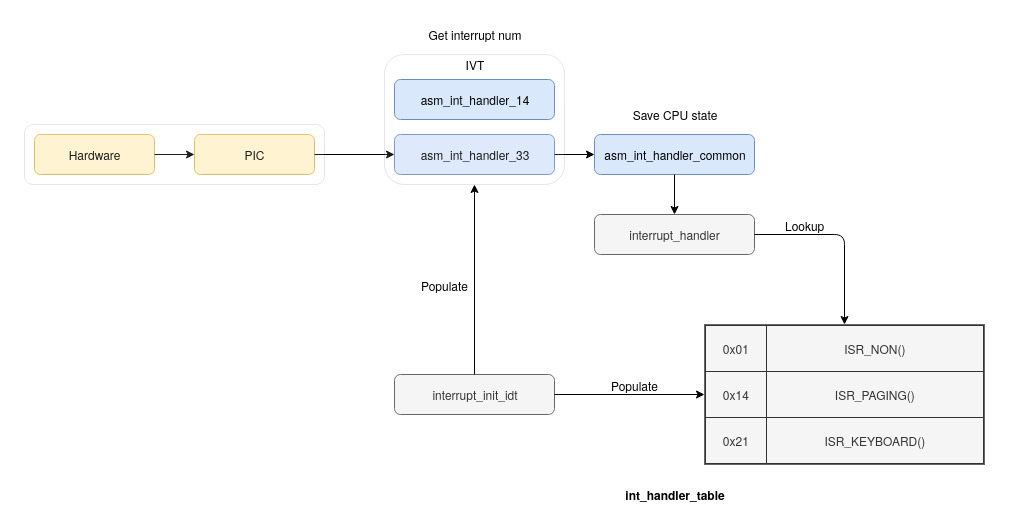
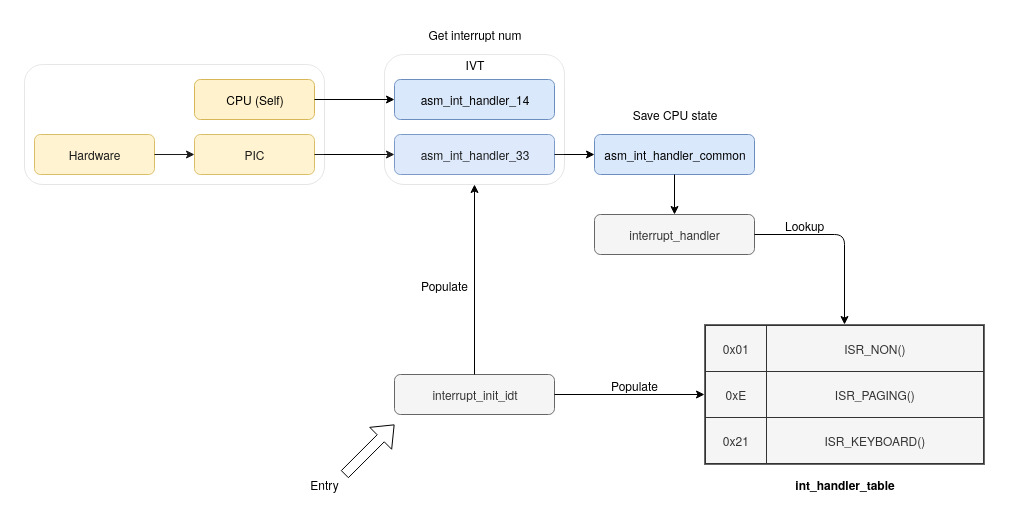
doc for higher half kernel and interrupts

diff --git a/doc/Kernel.md b/doc/Kernel.md
@@ -17,14 +17,28 @@
 ![Paging](resources/Paging.jpg)
 - With Paging enabled, when a memory address is deferenced, x86 goes to the Paging Directory
 to look for the corresponding Page Table that manages 4MiB of the physical memory region.
+- Once paging is enabled, everything must use paging, including the kernel (even interrupts).
 
 ```
 // 2nd Page Table is looked up (because each Page Table manages 4MiB), 
-// then offset 0x100000 in the Page Table is set to 0x2.
+// then 4 bytes at offset 0x100000 in the Page Table is set to 0x2.
 int *p = 0x500000;
 *p = 0x2;
 ```
-#### 4.1.6 Memory Management Unit
+#### 4.1.6 Higher-Half Kernel
+- Because a user program always assumes it owns all the memory. All compiled programs starts 
+at 0x0 in virtual memory, so we should place the kernel somewhere else so they don't overlap.
+- With a lot of linker and paging-on-boot hacking, we place the kernel at 0xc0000000 (3GiB).
+- From now on, all absolute physical addresses must add 0xc0000000 to its address (e.g. the VGA 
+buffer must be at 0xc00b8000 instead of 0x000b8000). Everything that requires physical address 
+to work must also be translated before passed in as arguments(e.g. the Page Directory in paging_init).
+- All future user programs may easily make system calls as the kernel is in their address space.
+
+```
+higher_half_init() -> kboot() -> kmain() -> paging_init()
+```
+
+#### 4.1.7 Memory Management Unit
 TODO
 
 ### 4.2 Interrupts
@@ -34,6 +48,22 @@ TODO
 ![PIC](resources/PIC.jpg)
 #### 4.2.3 Interrupt Handler Implementation
 ![Interrupts](resources/Interrupts.jpg)
+#### 4.2.4 Interrupts
+##### 4.2.4.1 Keyboard
+- When a key is pressed, the keyboard sends an interrupt to the PIC, which is then sent to the CPU.
+The interrupt number is 0x1, plus the PIC offset (0x20 in our case) becomes 0x21.
+- When we receive this interrupt, the ISR must read the scan code from the keyboard port, then translate
+this scan code into ascii code.
+- Both key presses and key releases generate interrupts. If we hold down a key, interrupts will keep 
+getting triggered.
 
+PS/2:
+```
+Key press-> keyboard controller recognizes press -> sends interrupt to CPU
+```
+vs USB:
+```
+Key press -> keyboard controller recognizes press -> stores keypress until USB poll -> sends status to USB controller -> USB controller sends interrupt to CPU
+```
 
 ### 4.3 Scheduler
